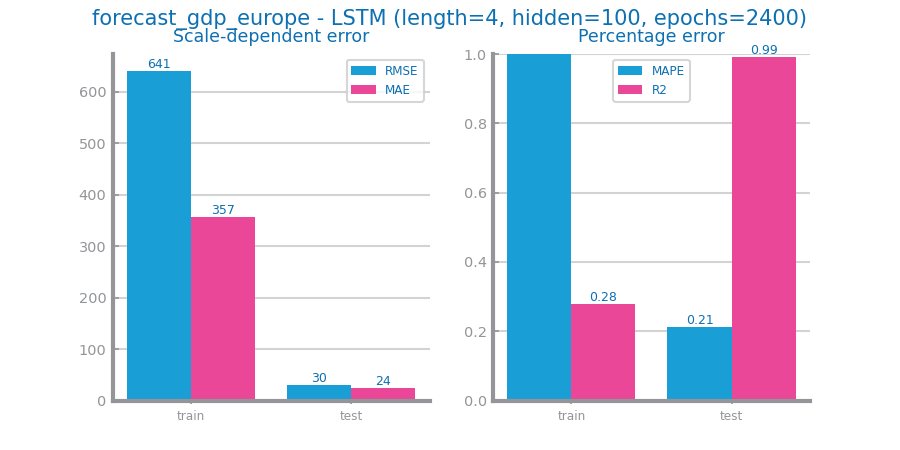
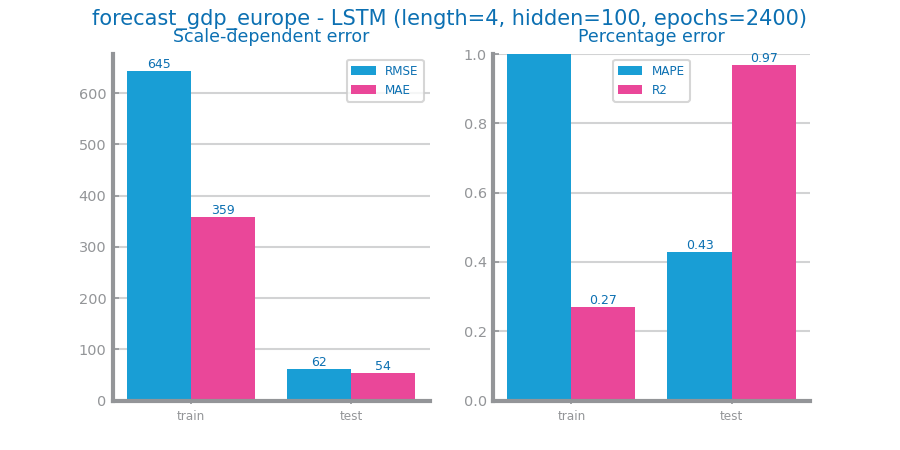
finally

diff --git a/Forecasting/Forecasting/Europe/lstm_economical.py b/Forecasting/Forecasting/Europe/lstm_economical.py
@@ -22,9 +22,9 @@ def prepare_dataset_for_lstm(series, seq_length: int = 4):
         setX.append(past)
         setY.append(future)
     
-    setX_tensor = tensor(setX, dtype=torch.float32).view(-1, seq_length, 1)  # Shape: (batch_size, seq_len, input_size)
-    setY_tensor = tensor(setY, dtype=torch.float32).view(-1, seq_length, 1)  # Shape: (batch_size, seq_len, input_size)
-    return setX_tensor, setY_tensor
+    setX_tensor = tensor(setX, dtype=torch.float32).view(-1, seq_length, 1)
+    setY_tensor = tensor(setY, dtype=torch.float32).view(-1, seq_length, 1)
+    return setX_tensor , setY_tensor
 
 class DS_LSTM(Module):
     def __init__(self, train, input_size: int = 1, hidden_size: int = 50, num_layers: int = 1, length: int = 4):
@@ -57,18 +57,22 @@ class DS_LSTM(Module):
             y_pred = self(X)
         return y_pred[:, -1, :]
     
-filename: str = "Data/Time_Series/forecast_gdp_europe_no_nan_second_diff.csv"
+
+train_filename = "Data/Time_Series/forecast_gdp_europe_no_nan_first_diff_train.csv"
+test_filename = "Data/Time_Series/forecast_gdp_europe_no_nan_first_diff_test.csv"
 file_tag: str = "forecast_gdp_europe"
 target: str = "GDP"
 timecol: str = "Year"
 
 measure: str = "R2"
 
-data: DataFrame = read_csv(filename, index_col=timecol, sep=",", decimal=".", parse_dates=True)
-series = data[[target]].values.astype("float32")
+train_file: DataFrame = read_csv(train_filename, index_col=timecol, sep=",", decimal=".", parse_dates=True)
+test_file: DataFrame = read_csv(test_filename, index_col=timecol, sep=",", decimal=".", parse_dates=True)
 
-train_size = int(len(series) * 0.90)
-train, test = series[:train_size], series[train_size:]
+
+
+train = train_file[[target]].values.astype("float32")
+test = test_file[[target]].values.astype("float32")
 
 model = DS_LSTM(train, input_size=1, hidden_size=50, num_layers=1)
 loss = model.fit()
@@ -129,7 +133,7 @@ def lstm_study(train, test, nr_episodes: int = 1000, measure: str = "R2"):
 
 
 best_model, best_params = lstm_study(train, test, nr_episodes=3000, measure=measure)
-savefig("Forecasting/Images/LSTM/all_plot_diagnostics_second_diff.png")
+savefig("Forecasting/Images/LSTM/all_plot_diagnostics_first_diff.png")
 
 params = best_params["params"]
 best_length = params[0]
@@ -146,18 +150,121 @@ plot_forecasting_eval(
     prd_tst,
     title=f"{file_tag} - LSTM (length={best_length}, hidden={params[1]}, epochs={params[2]})",
 )
-savefig(f"Forecasting/Images/LSTM/{file_tag}_lstms_{measure}_eval_second_diff.png")
+savefig(f"Forecasting/Images/LSTM/{file_tag}_lstms_{measure}_eval_first_diff.png")
 
-series = data[[target]]
-train, test = series[:train_size], series[train_size:]
-pred_series: Series = Series(prd_tst.numpy().ravel(), index=test.index[best_length:])
+pred_series: Series = Series(prd_tst.numpy().ravel(), index=test_file.index[best_length:])
+
 
 plot_forecasting_series(
-    train[best_length:],
-    test[best_length:],
+    Series(train[best_length:].ravel(), index=train_file.index[best_length:]),
+    Series(test[best_length:].ravel(), index=test_file.index[best_length:]),
     pred_series,
     title=f"{file_tag} - LSTMs ",
     xlabel=timecol,
     ylabel=target,
 )
-savefig(f"Forecasting/Images/LSTM/{file_tag}_lstms_{measure}_forecast_second_diff.png")
+
+savefig(f"Forecasting/Images/LSTM/{file_tag}_lstms_{measure}_forecast_first_diff.png")
+
+
+'''
+train: Series = train_file.values.astype("float32")
+test: Series = test_file.values.astype("float32")
+
+target_train = train_file[[target]].values.astype("float32")
+target_test = test_file[[target]].values.astype("float32")
+
+model = DS_LSTM(train, input_size=11, hidden_size=50, num_layers=1)
+loss = model.fit()
+print(loss)
+
+
+def lstm_multi_study(train, test, nr_episodes: int = 1000, measure: str = "R2"):
+    sequence_size = [2, 4, 8]
+    nr_hidden_units = [25, 50, 100]
+
+    step: int = nr_episodes // 10
+    episodes = [1] + list(range(0, nr_episodes + 1, step))[1:]
+    flag = measure == "R2" or measure == "MAPE"
+    best_model = None
+    best_params: dict = {"name": "LSTM", "metric": measure, "params": ()}
+    best_performance: float = -100000
+
+    _, axs = subplots(1, len(sequence_size), figsize=(len(sequence_size) * HEIGHT, HEIGHT))
+
+    for i in range(len(sequence_size)):
+        length = sequence_size[i]
+        if len(test) > length: 
+            tstX, tstY = prepare_dataset_for_lstm(test, seq_length=length)
+
+            values = {}
+            for hidden in nr_hidden_units:
+                yvalues = []
+                model = DS_LSTM(train,input_size=11, hidden_size=hidden)
+                for n in range(0, nr_episodes + 1):
+                    model.fit()
+                    if n % step == 0:
+                        prd_tst = model.predict(tstX)
+                        eval: float = FORECAST_MEASURES[measure](target_test[length:], prd_tst[:, -1])
+                        print(f"seq length={length} hidden_units={hidden} nr_episodes={n}", eval)
+                        if eval > best_performance and abs(eval - best_performance) > DELTA_IMPROVE:
+                            best_performance: float = eval
+                            best_params["params"] = (length, hidden, n)
+                            best_model = deepcopy(model)
+                        yvalues.append(eval)
+                values[hidden] = yvalues
+            plot_multiline_chart(
+                episodes,
+                values,
+                ax=axs[i],
+                title=f"LSTM seq length={length} ({measure})",
+                xlabel="nr episodes",
+                ylabel=measure,
+                percentage=flag,
+            )
+        else:
+            print(f"Warning: Test dataset is too small for sequence length={length}. Skipping this length.")
+            continue
+    print(
+    f"LSTM best results achieved with length={best_params['params'][0]} hidden_units={best_params['params'][1]} and nr_episodes={best_params['params'][2]} ==> measure={best_performance:.2f}"
+)
+
+    return best_model, best_params
+
+
+best_model, best_params = lstm_multi_study(train, test, nr_episodes=3000, measure=measure)
+savefig("Forecasting/Images/LSTM/all_plot_diagnostics_first_diff_multi.png")
+
+params = best_params["params"]
+best_length = params[0]
+trnX, trnY = prepare_dataset_for_lstm(train, seq_length=best_length)
+tstX, tstY = prepare_dataset_for_lstm(test, seq_length=best_length)
+
+prd_trn = best_model.predict(trnX)
+prd_tst = best_model.predict(tstX)
+
+plot_forecasting_eval(
+    target_train[best_length:],
+    target_test[best_length:],
+    prd_trn,
+    prd_tst,
+    title=f"{file_tag} - LSTM (length={best_length}, hidden={params[1]}, epochs={params[2]})",
+)
+savefig(f"Forecasting/Images/LSTM/{file_tag}_lstms_{measure}_eval_first_diff_multi.png")
+
+
+train_series = train_file[[target]]
+test_series = test_file[[target]]
+
+pred_series: Series = Series(prd_tst.numpy().ravel(), index=test_series.index[best_length:])
+
+plot_forecasting_series(
+    train_series[best_length:],
+    test_series[best_length:],
+    pred_series,
+    title=f"{file_tag} - LSTMs ",
+    xlabel=timecol,
+    ylabel=target,
+)
+savefig(f"Forecasting/Images/LSTM/{file_tag}_lstms_{measure}_forecast_first_diff_multi.png")
+'''
